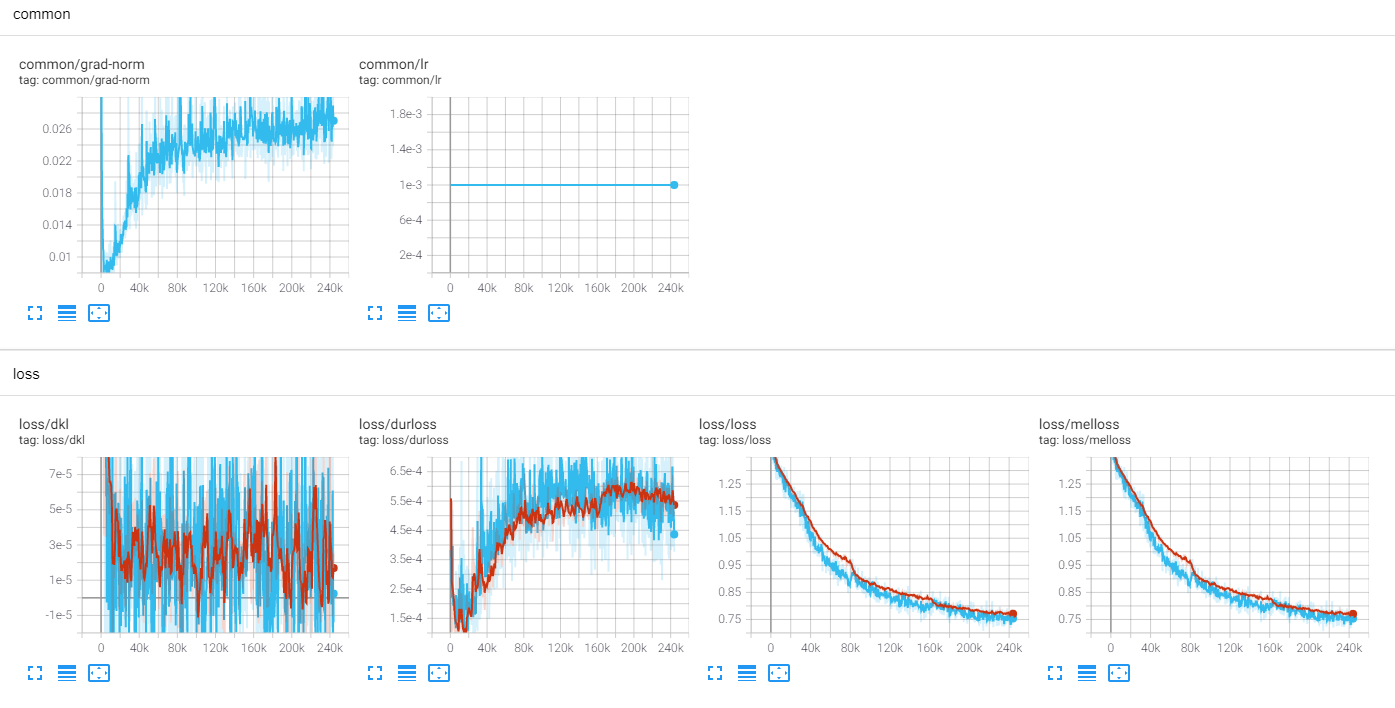
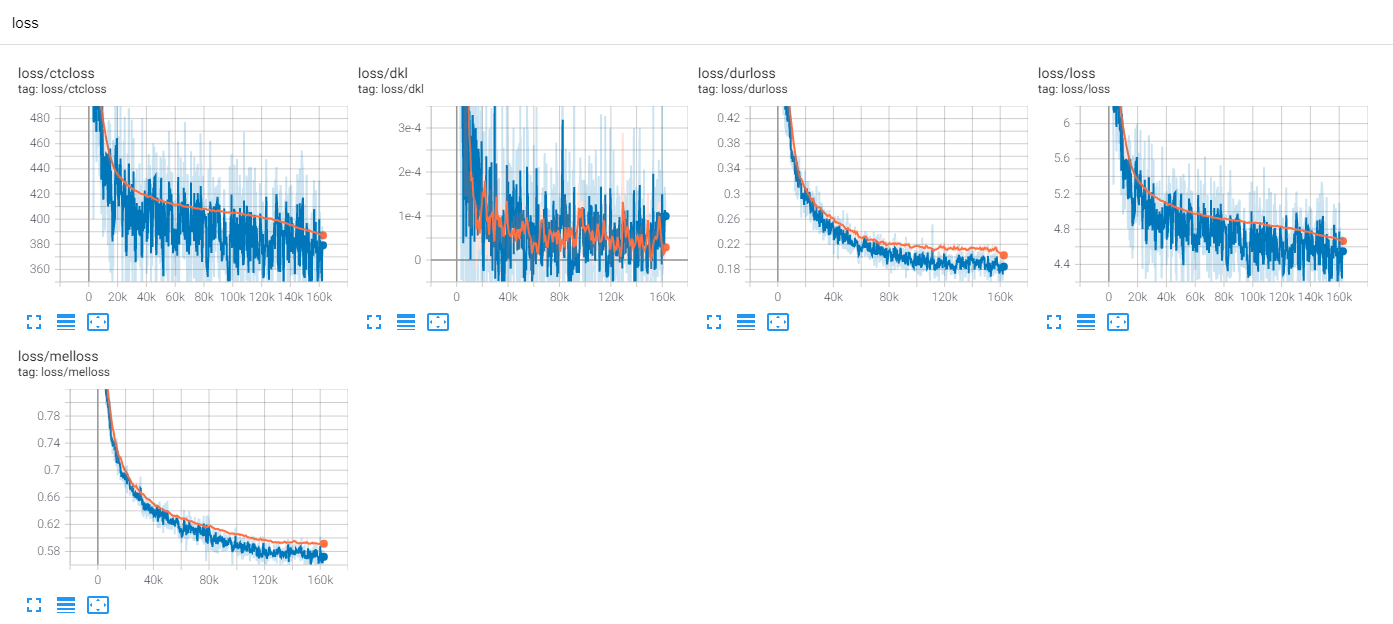
mlptts: Updates

diff --git a/config.py b/config.py
@@ -24,8 +24,8 @@ class TrainConfig:
         self.epoch = 200
 
         # path config
-        self.log = '/hdd1/revsic/ckpt/mlptts/log'
-        self.ckpt = '/hdd1/revsic/ckpt/mlptts/ckpt'
+        self.log = './log'
+        self.ckpt = './ckpt'
 
         # model name
         self.name = 'mlptts'

diff --git a/README.md b/README.md
@@ -1,16 +1,13 @@
 # tf-mlptts
 
-(PENDING) Tensorflow implementation of MLP-Mixer based TTS.
+Tensorflow implementation of MLP-Mixer based TTS.
 
-It is just for testing mlp-based architecture and TTS compatibility. \
-It generates mel-spectrogram naively, which cannot be recovered to audio by vocoder. \
-I leave some dynamic length MLP-like modules on [mlp.py](./mlptts/mlpmixer/mlp.py), and wish to complete this project in a short days.
-
-Experimental detail is described on [Philosophy](#philosophy).
+- It is for testing mlp-based architecture and TTS compatibility.
+- Experimental detail is described on [Philosophy](#philosophy).
 
 ## Requirements
 
-Tested in python 3.8.5 windows10 conda environment, [requirements.txt](./requirements.txt)
+Tested in python 3.7.9 ubuntu conda environment, [requirements.txt](./requirements.txt)
 
 ## Usage
 
@@ -37,7 +34,7 @@ tensorboard --logdir .\log
 If you want to train model from raw audio, specify audio directory and turn on the flag `--from-raw`.
 
 ```bash
-python .\train.py --data-dir D:\LJSpeech-1.1\wavs --from-raw
+python .\train.py --data-dir ./LJSpeech-1.1/wavs --from-raw
 ```
 
 To start to train from previous checkpoint, `--load-epoch` is available.
@@ -58,8 +55,19 @@ with open('mlptts.json') as f:
     config = Config.load(json.load(f))
 
 tts = MLPTextToSpeech(config.model)
+dummies = {
+    'text': tf.zeros([1, 1], dtype=tf.int32),
+    'textlen': tf.ones([1], dtype=tf.int32),
+    'mel': tf.zeros([1, 5, config.model.mel]),
+    'mellen': tf.convert_to_tensor([5], dtype=tf.int32),
+}
+# build
+tts(**dummies)
+# restore
 tts.restore('./mlptts_299.ckpt-1').expect_partial()
 ```
+
+Inferenece code sample is available on [inference.py](./inference.py)
 
 ## Learning Curve
 
@@ -72,23 +80,23 @@ train LJSpeech 300 epochs with [tf-diffwave](https://github.com/revsic/tf-diffwa
 
 ## Philosophy
 
-So far, there is a lot of TTS researches, especially parallel feed-forward models are trends these days. MLP-TTS is one of them, parallel feed-forward models, with end-to-end duration modeling introduced by Parallel Tacotron[3].
+So far, there is a lot of TTS researches, especially parallel feed-forward models are trends these days. MLP-TTS is one of them with CTC-based duration distillation, introduced by AlignTTS[6].
 
 On the other side, MLP-Mixer[1] and ResMLP[2] introduce MLP-only architectures for NN backbones.
 
 Since transformer and convolutions are major backbones on current TTS fields, I try to research the other backbones which can be compatible with TTS. And MLP-TTS is experiments for TTS with MLP-based architectures.
 
-### 1. Dynamic length MLP
+### 1. Dynamic length MLP (~ 2021.06.)
 
 The first issue was how to model MLP for dynamic length inputs.
 
-MLP-Mixer[1] and ResMLP[2] assume a fixed number of patches and it is possible to use MLP on the tempooral axis. But in the TTS case, it accepts dynamic size inputs and temporal-level MLP is impossible.
+MLP-Mixer[1] and ResMLP[2] assume a fixed number of patches and it is possible to use MLP on the temporal axis. But in the TTS case, as it accepts dynamic size inputs, MLP with fixed size weights is incompatible with these tasks.
 
 I propose some dynamic-length MLP-like architectures, which can be found on [mlp.py](./mlptts/mlpmixer/mlp.py).
 
 A. ConvMLP
 
-`ConvMLP` uses wide lnegth MLP on temporal axis. To deal with temporal dynamicity, it makes fixed length frames with overlapped regions, which can be simply found on STFT (Short-term Fourier Transform). After two MLP layers, it operates overlap-and-add to make the single sequence. 
+`ConvMLP` uses wide length MLP on temporal axis. To deal with temporal dynamicity, it makes fixed length frames with overlapped regions, which can be simply found on STFT (Short-term Fourier Transform). After two MLP layers, it operates overlap-and-add to make the single sequence. 
 
 For computational efficiency, 2D convolution and transposed convolution are chosen, but it is not practical since large size of memory is required (batch x num_frames x frame_size). And since we choose transposed convolution for cuda-accelaration of overlap-and-add, window function cannot be adaptable in operation sequence (ex. hann window).
 
@@ -103,12 +111,18 @@ It computes dynamic MLP weights from input features. For simplicity, mlp operate
 
 It has two philosophical differences between MLP-Mixer.
 
-First, Mixer separates the module into two exclusive operations, channel-level MLP and temporal-level MLP. But `DynTemporalMLP` acts on the temporal axis for computing dynamic weights. 
+First, Mixer separates the module into two exclusive operations, channel-level MLP and temporal-level MLP. But `DynTemporalMLP` acts on the channel axis for computing dynamic weights. 
 
 Second, since MLP learns the weights from individual positions, additional positional information is unnecessary. But `DynTemporalMLP` requires positional embeddings since it just computes the weights from two features of different positions, permutation invariant.
 
 ---
 In baseline, mlp-tts uses large size `TemporalConv` for temporal transformation.
+
+### 1.1. Dynamic length MLP (2021.07 ~)
+
+After I release [Beta-v0.1](https://github.com/revsic/tf-mlptts/releases/tag/beta-v0.1), some researches about dynamic-length MLP are introduced. It can be the one choice to encode dynamic-length features with MLP.
+
+- CycleMLP: A MLP-like Architecture for Dense Prediction [[arXiv](https://arxiv.org/abs/2107.10224)]
 
 ### 2. MLP-Mixer vs ResMLP
 
@@ -122,7 +136,7 @@ Like Transformer (Vaswani et al., 2017), MLP-Mixer[1] uses layer normalization o
 
 B. Affine-transform, ResMLP
 
-In paper of CaiT (Touvron et al., 2021), it introduces LayerScale, which use affine transform with small value of scale factor. ResMLP[2] uses normalization-free LayerScale and mlptts can be stabilized.
+In paper of CaiT (Touvron et al., 2021), it introduces LayerScale, which use affine transform with small value of scale factor. ResMLP[2] uses LayerScale and mlptts can be stabilized with this method.
 
 C. DDI-ActNorm, RescaleNet
 
@@ -131,21 +145,39 @@ RescaleNet[5] introduces DDI(data-dependent initialization) based debiasing for 
 ---
 In baseline, mlp-tts uses affine transform with the small value of scaling factor.
 
-### 3. Gaussian upsampling vs Regulator
+### 3. Gaussian upsampling vs Regulator (~ 2021.06.)
 
-From FastSpeech (Ren et al., 2019), explicit duration modeler is common on TTS in nowadays. MLP-TTS also uses an explicit duration modeler and train end-to-end with a gaussian upsampler.
+From FastSpeech (Ren et al., 2019), explicit duration modeler is common on TTS in nowadays. MLP-TTS also tries an explicit duration modeler and end-to-end with a gaussian upsampler.
 
-Regulator from Parallel Tacotron 2[4] is a more recent contribution, but it is unstable on mlp-tts. I think regulator was possible on parallel tacotron 2 since it assumes the locality with light-weight dynamic convolution, so that monotonicity of alignment can be inferenced from encoded features. However, MLP-TTS uses MLP and large-size temporal convolution, so that locality assumption can be freed and monotonicity cannot be inferenced from features (only on my thought).
+Regulator from Parallel Tacotron 2[4] is a more recent contribution, but it is unstable on mlp-tts. My guess of the reason why regulator was possible on parallel tacotron 2 was it assumes the locality with light-weight dynamic convolution, so that monotonicity of alignment can be inferenced from encoded features. However, MLP-TTS uses MLP and large-size temporal convolution, so that locality assumption can be freed and monotonicity cannot be inferenced from features.
 
 So I explicitly assume the monotonicity with the gaussian upsampling mechanism (Parallel Tacotron[3]), and it can stabilize the mlp-tts training.
 
+### 3.1. CTC and MAS based alignment distillation (2021.07. ~)
+
+After I release [Beta-v0.1](https://github.com/revsic/tf-mlptts/releases/tag/beta-v0.1), I think the end-to-end train is still unstable and distillation could be the solution to the alignment problem.
+
+There are many distillation modules, such as the autoregressive decoder (ex. JDI-T[7]), Flow-based decoder and monotonic alignment search (=MAS, ex. Glow-TTS[8]), and refining from positional encodings (ex. ParaNet[9]).
+
+Except for those of them, I'm interested in AlignTTS[6]. It uses the Mixture-density network and CTC-like objective for modeling the relationship between mel-spectrogram and text, then it finds alignment with Viterbi-algorithm.
+
+MLP-TTS also uses MDN and CTC for modeling mutual information between text and mel-spectrogram, and find the alignment with monotonic-alignment search from likelihood matrix instead of Viterbi algorithm. Then it is reduced to durations and distilled to durator modules.
+
+CTC+MAS is better than gaussian upsampler, concerning spectrogram restoration. It can generate human audible speeches and samples could be found on [WIP]. I estimate the reason for the failure is that the gradient of the durator did not backward to the text encoders, and text encoders could generate only context features.
+
 ### 4. Future works
 
-It cannot recover mel-spectrogram in detail. There are so many factors that can lead to this failure, temporal convolution, gaussian upsampler, and hyperparameters, etc. Now this repository is pended due to personal circumstances. I wish to complete this project in a short day.
+Since it is just POC models, samples are noisy and pronunciation is unclear. There are many factors that can be tuned and improved, such as dynamic length MLP modules or kernel length parameters, etc. It will be hard for me to make further improvements (it was just term project), but I would appreciate it if someone posts PR. Thanks for your attention.
 
 ### Reference
 [1] MLP-Mixer: An all-MLP Architecture for Vision, Tolstikhin et al., 2021. \
 [2] ResMLP: Feedforward networks for image classification with data-efficient training, Touvron et al., 2021. \
 [3] Parallel Tacotron: Non-Autoregressive and Controllable TTS, Elias et al., 2020. \
 [4] Parallel Tacotron 2: A Non-Autoregressive Neural TTS Model with Differentiable Duration Modeling, Elias et al., 2021. \
-[5] Is normalization indispensable for training deep neural networks, Shao et al., 2020.
+[5] Is normalization indispensable for training deep neural networks, Shao et al., 2020. \
+[6] AlignTTS: Efficient Feed-Forward Text-to-Speech System without Explicit Alignment
+, Zheng et al., 2020. \
+[7] JDI-T: Jointly trained Duration Informed Transformer for Text-To-Speech without Explicit Alignment, Lim et al., 2020.
+[8] Glow-TTS: A Generative Flow for Text-to-Speech via Monotonic Alignment Search, Kim et al., 2020.
+[9] Non-Autoregressive Neural Text-to-Speech, Peng et al., 2019.
+
